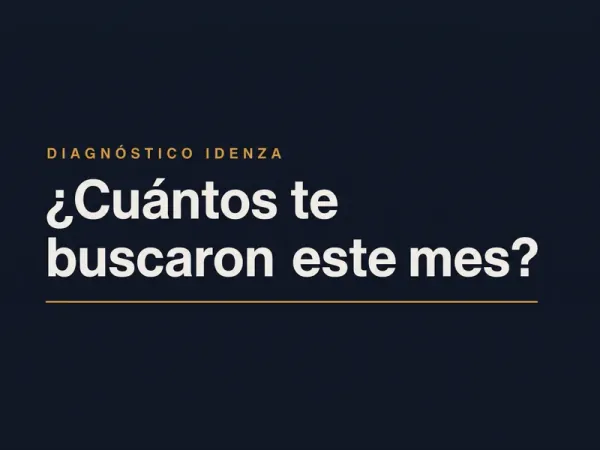
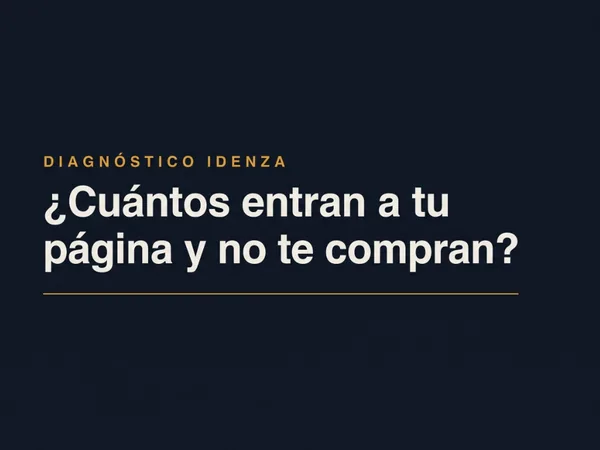
feat: actualizar imagen de cabecera y copy del popup a '¿Cuántos entran a tu página y no te compran?'

Changed region(s): [[0.06, 0.3111, 0.9, 0.6844]]

diff --git a/src/components/LeadCapturePopup.tsx b/src/components/LeadCapturePopup.tsx
@@ -231,7 +231,7 @@ export function LeadCapturePopup() {
             <TrendingUp className="w-4 h-4" />
           </div>
           <span className="[writing-mode:vertical-lr] text-[11px] font-bold tracking-wider uppercase text-[#F4F2ED]/90 rotate-180 py-1 font-sans">
-            ¿Cuántos te buscan?
+            ¿Por qué no compran?
           </span>
         </button>
       )}
@@ -259,14 +259,14 @@ export function LeadCapturePopup() {
             }`}
           >
             <h2 id="popup-title" className="sr-only">
-              Diagnóstico IDENZA: Averigua cuántos buscan tu servicio este mes
+              Diagnóstico IDENZA: ¿Cuántos entran a tu página y no te compran?
             </h2>
 
             {/* Header Image (4:3 format, occupies 100% width, no margins) */}
             <div className="relative w-full aspect-[4/3] overflow-hidden bg-[#0E1420] shrink-0">
               <img
                 src={popupHeaderImg}
-                alt="¿Cuántos te buscaron este mes?"
+                alt="¿Cuántos entran a tu página y no te compran?"
                 className="w-full h-full object-cover select-none"
                 loading="eager"
               />
@@ -286,7 +286,7 @@ export function LeadCapturePopup() {
             {/* Form Content */}
             <div className="p-5 space-y-4">
               <p className="text-xs md:text-sm text-[#0E1420]/80 leading-relaxed font-sans font-medium">
-                Averigua cuántas personas buscan lo que vendes en tu ciudad. Te enviamos el dato exacto a tu WhatsApp, gratis y sin compromiso.
+                Descubre por qué tus visitas no se convierten en clientes o cuántas personas buscan lo que vendes en tu ciudad. Te enviamos el reporte a tu WhatsApp, gratis y sin compromiso.
               </p>
 
               {serverError && (
@@ -382,7 +382,7 @@ export function LeadCapturePopup() {
                       <span>Enviando...</span>
                     </>
                   ) : (
-                    <span>Quiero mi número</span>
+                    <span>Quiero mi diagnóstico gratis</span>
                   )}
                 </button>
 
